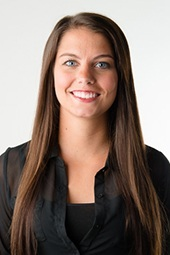
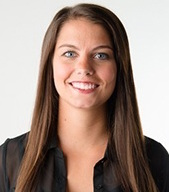
css

diff --git a/html/about.html b/html/about.html
@@ -23,19 +23,19 @@
     <main>
             <table style="width:100%">
                     <tr>
-                      <th><img class="picture" src="../img/Brittany.jpg" alt="Brittany" width="200" height="300"></th>
-                      <th><img class="picture" src="../img/richard.jpg" alt="Richard" width="220" height="300"></th>
-                      <th><img class="picture" src="../img/anna.jpeg" alt="Anna" width="250" height="300"></th>
+                      <th><img class="picture" src="../img/Brittany.jpg" alt="Brittany" width="250" height="250"></th>
+                      <th><img class="picture" src="../img/richard.jpg" alt="Richard" width="250" height="250"></th>
+                      <th><img class="picture" src="../img/anna.jpeg" alt="Anna" width="250" height="250"></th>
                     </tr>
                     <tr>
-                       <th>Brittany</th>
-                       <th>Richard</th>
-                       <th>Anna</th>
+                       <th id="name">Brittany</th>
+                       <th id="name">Richard</th>
+                       <th id="name">Anna</th>
                     </tr>
                     <tr>
-                      <th>I am currently working as an office manager at Dr Joseph Zimmer’s dental office, while studying software development at Codefellows. One of my greatest strengths is my ability learn quickly and to be able to be a strong team player. I am very interested in securing a role at a tech company that allows me to utilize my computer programing skills, and also learn skills I do not already have. Because software development and being a team player were such a key part of my schooling, it’s important for me to find the perfect fit for myself and the company where I can utilize those skills to the fullest. Thank you for your time.</th> 
-                      <th>about richard</th> 
-                      <th>about anna</th> 
+                      <th>Currently working as an office manager at a dental office, while studying software development at Codefellows. One of my greatest strengths is my ability learn quickly and to be able to be a strong team player. I am very interested in securing a role at a tech company that allows me to utilize my computer programing skills, and also learn skills I do not already have.</th> 
+                      <th>about richard Currently working as an office manager at a dental office, while studying software development at Codefellows. One of my greatest strengths is my ability learn quickly and to be able to be a strong team player. I am very interested in securing a role at a tech company that allows me to utilize my computer programing skills, and also learn skills I do not already have.</th> 
+                      <th>about anna Currently working as an office manager at a dental office, while studying software development at Codefellows. One of my greatest strengths is my ability learn quickly and to be able to be a strong team player. I am very interested in securing a role at a tech company that allows me to utilize my computer programing skills, and also learn skills I do not already have.</th> 
                     </tr>
                   </table>
     </main>

diff --git a/css/complaint.css b/css/complaint.css
@@ -1,5 +1,7 @@
 @import url(https://fonts.googleapis.com/css?family=Concert+One);
 @import url(https://fonts.googleapis.com/css?family=Advent+Pro:300);
+@import url(https://fonts.googleapis.com/css?family=Noto+Sans);
+@import url(https://fonts.googleapis.com/css?family=Asset|Nunito:700|Quicksand:300|Seymour+One);
 
 html,body {
   height:100%;
@@ -61,14 +63,13 @@ body form {
 }
 
 /* ----------------------button---------------------- */
-.btn {
-    /* width: 100%; */
+div .btn {
     margin: auto;
-    /* margin-top: 0; */
     background:none;
     -webkit-border-radius: 16;
     -moz-border-radius: 16;
-    border: 10px;
+    border: .1px solid white;
+    border-color: white;
     text-shadow: 0px 2px 0px #666666;
     -webkit-box-shadow: 0px 1px 9px #666666;
     -moz-box-shadow: 0px 1px 9px #666666;
@@ -81,17 +82,14 @@ body form {
     text-decoration: none;
     cursor: pointer;
     position: absolute;
-
     top: 120%;
     left: 35%;
-    
-
   }
   
   .btn:hover {
     background: rgba(137, 240, 47, 0.40);
     text-decoration: none;
-    transition: background-color 2s ease;
+    transition: background-color 4s ease;
   }
 
 /* ------------------------comment box-------------------------------------- */

diff --git a/css/about.css b/css/about.css
@@ -1,16 +1,20 @@
 @import url(https://fonts.googleapis.com/css?family=Concert+One);
 @import url(https://fonts.googleapis.com/css?family=Advent+Pro:300);
+@import url(https://fonts.googleapis.com/css?family=Noto+Sans);
+
 
 html,body {
   height:100%;
   background-repeat: no-repeat; 
   background-attachment: fixed;
+  font-family: 'Noto Sans', sans-serif;
 }
 
 body {
     text-align:center; 
     background: -webkit-gradient(linear, left top, left bottom, color-stop(0%,#151414), color-stop(80%,#887d7d), color-stop(100%,#d4d6d6)); 
     background: -webkit-linear-gradient(top,  #151414 0%,#887d7d 80%,#d4d6d6 100%); 
+    font-family: 'Noto Sans', sans-serif;
 }
 
 header {
@@ -35,10 +39,22 @@ header ul li a {
     text-align: center;
     padding: 14px 16px;
     text-decoration: none;
+    
 }
-
+#name {
+    font-size: 24px;
+    color: rgba(137, 240, 47, 0.89);
+    text-shadow: 2px 2px black;
+}
+tr th {
+    font-family: 'Noto Sans', sans-serif;
+    font-size: 14px;
+    padding: 12px 16px;
+    
+}
 header ul li a:hover {
     color: rgba(137, 240, 47, 0.89);
+    
 }
 
 .right {

diff --git a/css/response.css b/css/response.css
@@ -1,6 +1,7 @@
-/* @import url(https://fonts.googleapis.com/css?family=Concert+One);
-@import url(https://fonts.googleapis.com/css?family=Advent+Pro:300); */
-@import url(https://fonts.googleapis.com/css?family=Raleway);
+@import url(https://fonts.googleapis.com/css?family=Concert+One);
+@import url(https://fonts.googleapis.com/css?family=Advent+Pro:300);
+@import url(https://fonts.googleapis.com/css?family=Noto+Sans);
+@import url(https://fonts.googleapis.com/css?family=Asset|Nunito:700|Quicksand:300|Seymour+One);
 
 html,body {
   height:100%;
@@ -56,7 +57,7 @@ body div {
 }
 
 body div img {
-    width: 60%;
+    width: 40%;
     margin: auto;
     margin-top: 0;
 }

diff --git a/css/home.css b/css/home.css
@@ -1,4 +1,8 @@
+@import url(https://fonts.googleapis.com/css?family=Concert+One);
+@import url(https://fonts.googleapis.com/css?family=Advent+Pro:300);
 @import url(https://fonts.googleapis.com/css?family=Noto+Sans);
+@import url(https://fonts.googleapis.com/css?family=Asset|Nunito:700|Quicksand:300|Seymour+One);
+
 section {
   position: absolute;
   top: 45%;
@@ -37,9 +41,9 @@ h1 {
 
 /* --------------------------------------------------------------- */
 .btn:hover {
-  background: rgba(137, 240, 47, 0.60);
+  background: rgba(137, 240, 47, 0.40);
   text-decoration: none;
-  transition: background-color 4s ease;
+  transition: background-color 2s ease;
 }
 
 div {

diff --git a/html/complaint.html b/html/complaint.html
@@ -33,7 +33,7 @@
                     <textarea name="complaint" required id="complaint" placeholder="Write your comment here, tell me how you really feel."></textarea>        
                   </div>
                   <div class="form_grp">
-                  <button class="btn" type="submit" id="complaint">File a Complaint</button>
+                  <button class="btn" type="submit">File a Complaint</button>
                   </div>
                 </fieldset>
               </form>  

diff --git a/css/index.css b/css/index.css
@@ -61,7 +61,7 @@ section p {
     top: -100px;
     left: 20%;
     right: 20%;
-    font-size: 25px;
+    font-size: 150%;
     text-shadow: 0 2px 0 black;
     
 }
@@ -117,6 +117,7 @@ section p {
     font-size: 30px;
     font-weight: bold;
     font-family: 'Nunito', sans-serif;
+    color: white;
 }
 /* ----------------------------------green scale------------------------------- */
 label[for=range] {

diff --git a/html/home.html b/html/home.html
@@ -18,6 +18,5 @@
 <section>
     <a href="index.html"><button class="btn">File a Complaint</button></a>
 </section>
-<script src="../js/home.js"></script>
 </body>
 </html>
